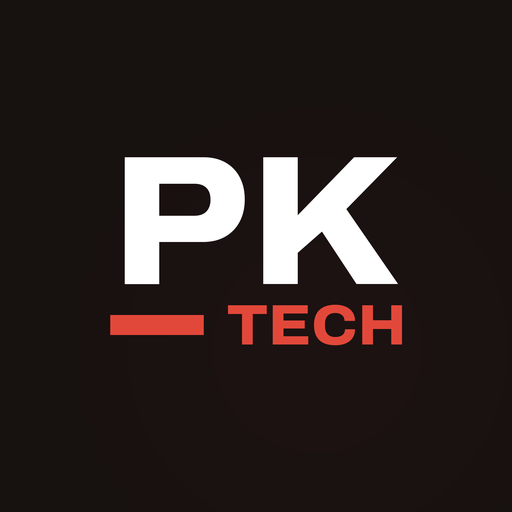
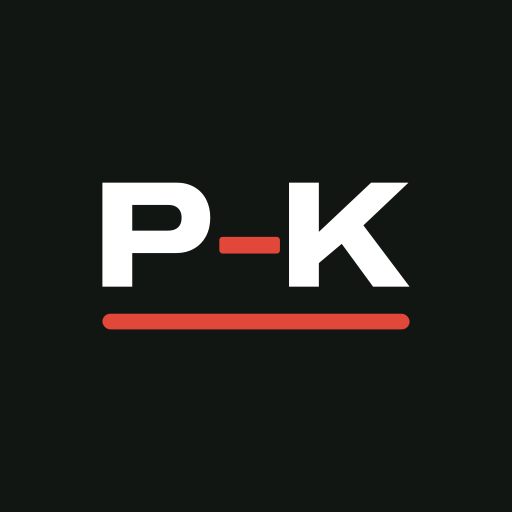
feat: wstaw oficjalny znak PRO-KOM TECH i ikony z księgi znaku
Logo.tsx rysuje znak poziomy z księgi PRO-KOM_znak_2026-10 (wersje kolor
i negatyw mają tę samą geometrię): napis w --logo-ink (#121613 / biały),
myślnik, kreska i „TECH” w czerwieni Tech (#D13A2E / #E2483A).
Ikony PWA 192/512, apple-touch 180 i favicon (svg + ico) z 03_ikony/tech,
maskable 512 wyrenderowana z ikona-aplikacji.svg. Favicon tylko w layoucie
publicznym — panele zostają przy app/icon.svg.

Changed region(s): [[0.1875, 0.2812, 0.8125, 0.5625], [0.1875, 0.5938, 0.8125, 0.6875]]

diff --git a/frontend/components/tech/Logo.tsx b/frontend/components/tech/Logo.tsx
@@ -1,32 +1,33 @@
 /**
- * PRO-KOM TECH mark (design T.Logo). Stand-in drawing until the official SVG
- * (SPEC §10, [Krystian]) — replace this one file.
+ * Official PRO-KOM TECH mark, horizontal layout (brand book PRO-KOM_znak_2026-10,
+ * 01_wektor/SVG/tech/prokom-tech_poziome_{kolor,negatyw}.svg — same geometry, only colours differ).
+ * Wordmark: --l-ink (Grafit #121613 on light, white on dark = "negatyw"),
+ * dash, bar and "TECH": --l-acc (Czerwień Tech #D13A2E on light, #E2483A on dark).
+ * Colours come from the theme tokens in tech.css (--logo-ink / --logo-acc); `dark` forces the
+ * negative version (dark footer band). Height = 1.3 × --l-size (tech.css), width from the viewBox.
  */
 type Props = { size?: number; dark?: boolean; className?: string };
 
+const WORD = "M11.94 100V0H82.97Q92.87 0 100.22 4.22Q107.57 8.44 111.57 16.08Q115.57 23.73 115.57 33.62Q115.57 43.81 111.5 51.46Q107.42 59.1 100 63.39Q92.58 67.69 82.53 67.69H40.61V100ZM40.61 46.14H74.96Q81.37 46.14 84.72 42.94Q88.06 39.74 88.06 33.77Q88.06 29.84 86.54 27.07Q85.01 24.31 82.17 22.85Q79.33 21.4 74.96 21.4H40.61Z M129.84 100V0H206.11Q217.03 0 224.24 4.37Q231.44 8.73 235.08 16.01Q238.72 23.29 238.72 32.02Q238.72 41.63 234.28 49.34Q229.84 57.06 220.96 61.43L241.34 100H209.17L192.58 66.23H158.52V100ZM158.52 44.98H197.67Q203.06 44.98 206.26 41.7Q209.46 38.43 209.46 32.9Q209.46 29.11 208.01 26.56Q206.55 24.02 203.93 22.63Q201.31 21.25 197.67 21.25H158.52Z M314.85 101.75Q295.63 101.75 281.73 95.71Q267.83 89.67 260.33 78.09Q252.84 66.52 252.84 49.93Q252.84 33.33 260.33 21.76Q267.83 10.19 281.73 4.22Q295.63 -1.75 314.85 -1.75Q334.06 -1.75 347.96 4.22Q361.86 10.19 369.36 21.76Q376.86 33.33 376.86 49.93Q376.86 66.52 369.36 78.09Q361.86 89.67 347.96 95.71Q334.06 101.75 314.85 101.75ZM314.85 80.2Q322.27 80.2 328.24 78.31Q334.21 76.42 338.5 72.78Q342.79 69.14 345.05 63.9Q347.31 58.66 347.31 51.97V47.74Q347.31 41.19 345.05 35.95Q342.79 30.71 338.5 27.07Q334.21 23.44 328.24 21.54Q322.27 19.65 314.85 19.65Q307.42 19.65 301.46 21.54Q295.49 23.44 291.19 27.07Q286.9 30.71 284.64 35.95Q282.39 41.19 282.39 47.74V51.97Q282.39 58.66 284.64 63.9Q286.9 69.14 291.19 72.78Q295.49 76.42 301.46 78.31Q307.42 80.2 314.85 80.2Z M452.55 100V0H481.22V47.31L531.44 0H567.39L524.02 41.05L568.41 100H533.33L503.2 58.81L481.22 77.29V100Z M629.26 101.75Q610.04 101.75 596.14 95.71Q582.24 89.67 574.75 78.09Q567.25 66.52 567.25 49.93Q567.25 33.33 574.75 21.76Q582.24 10.19 596.14 4.22Q610.04 -1.75 629.26 -1.75Q648.47 -1.75 662.37 4.22Q676.27 10.19 683.77 21.76Q691.27 33.33 691.27 49.93Q691.27 66.52 683.77 78.09Q676.27 89.67 662.37 95.71Q648.47 101.75 629.26 101.75ZM629.26 80.2Q636.68 80.2 642.65 78.31Q648.62 76.42 652.91 72.78Q657.21 69.14 659.46 63.9Q661.72 58.66 661.72 51.97V47.74Q661.72 41.19 659.46 35.95Q657.21 30.71 652.91 27.07Q648.62 23.44 642.65 21.54Q636.68 19.65 629.26 19.65Q621.83 19.65 615.87 21.54Q609.9 23.44 605.6 27.07Q601.31 30.71 599.05 35.95Q596.8 41.19 596.8 47.74V51.97Q596.8 58.66 599.05 63.9Q601.31 69.14 605.6 72.78Q609.9 76.42 615.87 78.31Q621.83 80.2 629.26 80.2Z M710.04 100V0H754L769.87 43.67Q770.74 46.29 772.05 50.36Q773.36 54.44 774.67 58.66Q775.98 62.88 777 66.38H778.02Q778.89 63.32 780.13 59.32Q781.37 55.31 782.68 51.16Q783.99 47.02 785.15 43.67L800.87 0H843.67V100H815.28V50.8Q815.28 46.87 815.36 42.36Q815.43 37.85 815.57 33.77Q815.72 29.69 815.87 27.07H814.7Q813.83 29.69 812.66 33.62Q811.5 37.55 810.26 41.48Q809.02 45.41 808.01 48.33L788.79 100H763.32L744.1 48.33Q742.79 44.69 741.56 40.68Q740.32 36.68 739.3 33.11Q738.28 29.55 737.55 27.07H736.39Q736.54 29.69 736.61 33.7Q736.68 37.7 736.75 42.14Q736.83 46.58 736.83 50.8V100Z";
+const TECH = "M44.25 100V20.38H3.64V0H109.17V20.38H68.56V100Z M154.88 100V0H250.95V19.36H179.04V39.59H242.5V58.66H179.04V80.64H251.97V100Z M356.48 101.75Q337.26 101.75 324.24 96Q311.21 90.25 304.59 78.68Q297.96 67.1 297.96 49.93Q297.96 24.75 313.03 11.5Q328.09 -1.75 356.33 -1.75Q372.2 -1.75 384.35 3.06Q396.51 7.86 403.42 16.89Q410.33 25.91 410.33 38.86H386.61Q386.61 32.02 382.75 27.22Q378.89 22.42 372.05 19.94Q365.21 17.47 356.04 17.47Q345.41 17.47 337.99 21.11Q330.57 24.75 326.71 31.59Q322.85 38.43 322.85 48.03V51.82Q322.85 61.43 326.71 68.27Q330.57 75.11 337.99 78.82Q345.41 82.53 356.04 82.53Q365.65 82.53 372.63 80.13Q379.62 77.73 383.41 73Q387.19 68.27 387.19 61.43H410.48Q410.48 74.09 403.71 83.19Q396.94 92.29 384.79 97.02Q372.63 101.75 356.48 101.75Z M460.26 100V0H484.57V38.86H543.52V0H567.69V100H543.52V59.24H484.57V100Z";
+
 export function Logo({ size = 28, dark = false, className }: Props) {
-  const s = size;
-  const style = {
-    "--l-size": `${s}px`,
-    "--l-gap": `${Math.round(s * 0.24)}px`,
-    "--l-dash-w": `${Math.round(s * 0.4)}px`,
-    "--l-dash-h": `${Math.max(2, Math.round(s * 0.125))}px`,
-    "--l-dash-m": `${Math.round(s * 0.09)}px`,
-    "--l-bar-h": `${Math.max(2, Math.round(s * 0.09))}px`,
-    "--l-bar-gap": `${Math.round(s * 0.22)}px`,
-    "--l-label": `${Math.max(8, Math.round(s * 0.36))}px`,
-  } as React.CSSProperties;
+  const style = { "--l-size": `${size}px` } as React.CSSProperties;
   return (
-    <span role="img" aria-label="PRO-KOM Tech" className={`t-logo${dark ? " t-logo--dark" : ""}${className ? ` ${className}` : ""}`} style={style}>
-      <span className="t-logo__word" aria-hidden="true">
-        PRO
-        <span className="t-logo__dash" />
-        KOM
-      </span>
-      <span className="t-logo__line" aria-hidden="true">
-        <span className="t-logo__bar" />
-        <span className="t-logo__label">TECH</span>
-      </span>
-    </span>
+    <svg
+      role="img"
+      aria-label="PRO-KOM Tech"
+      viewBox="-2 -2 835.73 167"
+      className={`t-logo${dark ? " t-logo--dark" : ""}${className ? ` ${className}` : ""}`}
+      style={style}
+      focusable="false"
+    >
+      <g transform="translate(-11.94 0)">
+        <path d={WORD} fill="var(--l-ink)" />
+        <rect x="373.65" y="52.58" width="58.22" height="15.08" rx="3" fill="var(--l-acc)" />
+        <rect x="0" y="142" width="617.6" height="9" rx="4.5" fill="var(--l-acc)" />
+        <path d={TECH} fill="var(--l-acc)" transform="translate(644.4 130) scale(0.33)" />
+      </g>
+    </svg>
   );
 }

diff --git a/frontend/app/(public)/tech.css b/frontend/app/(public)/tech.css
@@ -26,6 +26,7 @@
   --capbg: rgba(255, 255, 255, 0.8);
   --capbd: rgba(18, 22, 19, 0.09);
   --logo-acc: #d13a2e;
+  --logo-ink: #121613;
   --sh: 0 1px 2px rgba(0, 0, 0, 0.05), 0 22px 44px -30px rgba(18, 22, 19, 0.3);
   --cap-inset: inset 0 1px 0 rgba(255, 255, 255, 0.9);
 
@@ -75,6 +76,7 @@ html[data-tech-theme="dark"] .tech {
   --capbg: rgba(36, 27, 26, 0.8);
   --capbd: rgba(255, 255, 255, 0.1);
   --logo-acc: #e2483a;
+  --logo-ink: #ffffff;
   --sh: 0 1px 2px rgba(0, 0, 0, 0.3), 0 22px 44px -30px rgba(0, 0, 0, 0.7);
   --cap-inset: inset 0 1px 0 rgba(255, 255, 255, 0.06);
   --dot-open: #7bd36a;
@@ -232,20 +234,13 @@ html[data-tech-theme="dark"] .tech {
 .tech .t-label { font-size: 12px; font-weight: 800; letter-spacing: 0.1em; text-transform: uppercase; color: var(--ink2); }
 
 /* ---------- Logo ---------- */
+/* Official mark (components/tech/Logo.tsx, inline SVG 835.73 × 167). Height = 1.3 × --l-size, width from the
+   viewBox ratio (explicit, so flex parents that stretch do not widen the box). */
 .tech .t-logo {
-  display: inline-flex; flex-direction: column; gap: var(--l-gap);
-  font-family: var(--t-font-head); color: var(--ink); line-height: 1;
-  --l-acc: var(--logo-acc);
+  display: block; flex-shrink: 0; height: calc(var(--l-size) * 1.3); width: calc(var(--l-size) * 1.3 * 5.0044); overflow: visible;
+  --l-ink: var(--logo-ink); --l-acc: var(--logo-acc);
 }
-.tech .t-logo--dark { color: #ffffff; --l-acc: #e2483a; }
-.tech .t-logo__word {
-  display: flex; align-items: center; font-stretch: 118%; font-weight: 800;
-  font-size: var(--l-size); line-height: 0.78; letter-spacing: -0.01em; white-space: nowrap;
-}
-.tech .t-logo__dash { display: inline-block; width: var(--l-dash-w); height: var(--l-dash-h); margin: 0 var(--l-dash-m); border-radius: 1px; background: var(--l-acc); }
-.tech .t-logo__line { display: flex; align-items: center; gap: var(--l-bar-gap); }
-.tech .t-logo__bar { flex-grow: 1; height: var(--l-bar-h); border-radius: 1px; background: var(--l-acc); }
-.tech .t-logo__label { font-stretch: 112%; font-weight: 800; font-size: var(--l-label); letter-spacing: 0.3em; margin-right: -0.3em; line-height: 1; }
+.tech .t-logo--dark { --l-ink: #ffffff; --l-acc: #e2483a; }
 
 /* ---------- Opening status ---------- */
 .tech .t-status { display: inline-flex; align-items: center; gap: 7px; font-weight: 700; white-space: nowrap; }
@@ -314,7 +309,7 @@ html[data-tech-theme="dark"] .tech {
   -webkit-backdrop-filter: saturate(1.4) blur(14px); backdrop-filter: saturate(1.4) blur(14px);
 }
 .tech .t-capsule__logo { display: flex; align-items: center; min-height: 44px; flex-shrink: 0; }
-.tech .t-capsule__logo .t-logo { --l-size: 21px !important; --l-gap: 5px !important; --l-dash-w: 8px !important; --l-dash-h: 3px !important; --l-dash-m: 2px !important; --l-bar-h: 2px !important; --l-bar-gap: 5px !important; --l-label: 8px !important; }
+.tech .t-capsule__logo .t-logo { --l-size: 21px !important; }
 .tech .t-capsule__nav, .tech .t-capsule__account, .tech .t-capsule__theme { display: none; }
 .tech .t-capsule__actions { display: flex; align-items: center; gap: 6px; flex-shrink: 0; }
 .tech .t-capsule .t-cta { height: 44px; padding: 0 15px; border-radius: 13px; font-size: 14px; box-shadow: none; }
@@ -325,7 +320,7 @@ html[data-tech-theme="dark"] .tech {
 @media (min-width: 1024px) {
   .tech .t-capwrap { position: relative; padding-top: 4px; transform: none !important; }
   .tech .t-capsule { height: 72px; padding: 0 12px 0 26px; border-radius: 22px; box-shadow: var(--cap-inset), var(--sh); }
-  .tech .t-capsule__logo .t-logo { --l-size: 28px !important; --l-gap: 7px !important; --l-dash-w: 11px !important; --l-dash-h: 4px !important; --l-dash-m: 3px !important; --l-bar-h: 3px !important; --l-bar-gap: 6px !important; --l-label: 10px !important; }
+  .tech .t-capsule__logo .t-logo { --l-size: 28px !important; }
   .tech .t-capsule__nav { display: flex; align-items: center; gap: 2px; }
   .tech .t-capsule__account { display: inline-flex; }
   .tech .t-capsule__theme { display: inline-flex; }
@@ -348,7 +343,7 @@ html[data-tech-theme="dark"] .tech {
   .tech .t-capsule .t-cta__short { display: inline; }
 }
 @media (min-width: 1024px) and (max-width: 1099.98px) {
-  .tech .t-capsule__logo .t-logo { --l-size: 24px !important; --l-dash-w: 10px !important; --l-label: 9px !important; }
+  .tech .t-capsule__logo .t-logo { --l-size: 24px !important; }
 }
 
 .tech .t-navitem { position: relative; }

diff --git a/frontend/app/(public)/layout.tsx b/frontend/app/(public)/layout.tsx
@@ -57,9 +57,16 @@ export const metadata: Metadata = {
   },
   twitter: { card: "summary_large_image", title: defaultTitle, description },
   // PWA only on public pages (SPEC §12.2): manifest, iOS meta, apple-touch-icon.
+  // Favicon and icons from the PRO-KOM TECH brand book (03_ikony/tech); panels keep app/icon.svg.
   manifest: MANIFEST_PATH,
   appleWebApp: { capable: true, title: line.name, statusBarStyle: "black-translucent" },
-  icons: { apple: [{ url: "/tech/pwa/apple-touch-icon.png", sizes: "180x180" }] },
+  icons: {
+    icon: [
+      { url: "/tech/pwa/favicon.svg", type: "image/svg+xml" },
+      { url: "/tech/pwa/favicon.ico", sizes: "16x16 32x32 48x48" },
+    ],
+    apple: [{ url: "/tech/pwa/apple-touch-icon.png", sizes: "180x180" }],
+  },
 };
 
 export const viewport: Viewport = {

diff --git a/frontend/tests/tech/pwa.test.ts b/frontend/tests/tech/pwa.test.ts
@@ -27,6 +27,7 @@ describe("PWA — manifest", () => {
     expect(m.icons.map((i) => `${i.sizes}:${i.purpose}`)).toEqual(["192x192:any", "512x512:any", "512x512:maskable"]);
     for (const i of m.icons) expect(fs.existsSync(path.join(FRONTEND, "public", i.src))).toBe(true);
     expect(fs.existsSync(path.join(FRONTEND, "public/tech/pwa/apple-touch-icon.png"))).toBe(true);
+    for (const f of ["favicon.svg", "favicon.ico"]) expect(fs.existsSync(path.join(FRONTEND, "public/tech/pwa", f)), f).toBe(true);
   });
   it("shortcuts: Zgłoś naprawę, Status naprawy, Punkty", () => {
     expect(m.shortcuts.map((s) => [s.name, s.url.split("?")[0]])).toEqual([
